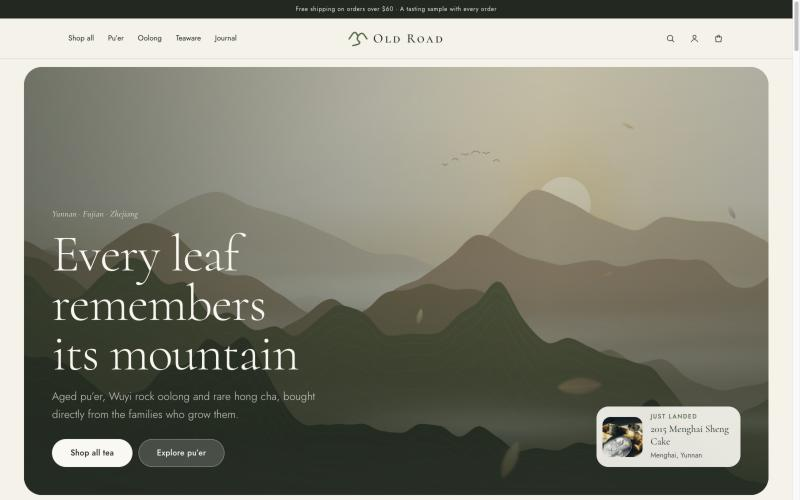
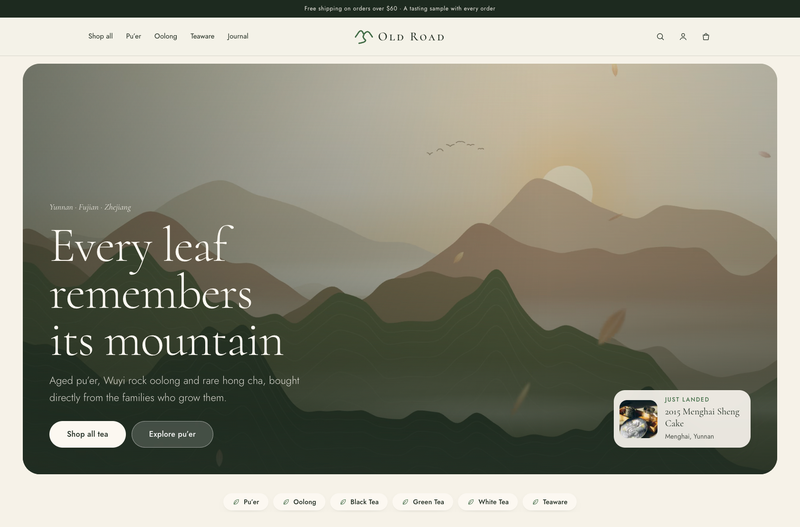
Feature Old Road alone and move Atelier to the Other list
Claude-Session: https://claude.ai/code/session_019kEPvjAKrhc257yV35kJJV

Changed region(s): [[0.0, 0.12, 1.0, 0.99], [0.0, 0.0, 1.0, 0.09], [0.2812, 0.36, 0.4062, 0.42]]

diff --git a/README.md b/README.md
@@ -28,18 +28,16 @@ Built the marketing site and [docs site](https://docs.unilake.com/) on shared UI
 
 <a href="https://www.unilake.com/"><img src="./screenshots/unilake.png" width="40%" alt="Unilake marketing site homepage"></a>
 
-**[Old Road](https://tea-shop-coral.vercel.app/) & [Atelier](https://atelie-store-beta.vercel.app/)** — full-stack e-commerce stores for tea and fashion\
-Next.js apps built end to end: product collections, search, cart, Stripe Checkout, authentication and user accounts. Stock reservation that holds up when several people buy at once, idempotent webhooks and an admin dashboard. · [code](https://github.com/yeldynov/tea-shop)\
+**[Old Road](https://tea-shop-coral.vercel.app/)** — full-stack e-commerce store for Chinese tea\
+Next.js app built end to end: product collections, search, cart, Stripe Checkout, authentication and user accounts. Stock reservation that holds up when several people buy at once, idempotent webhooks and an admin dashboard. · [code](https://github.com/yeldynov/tea-shop)\
 `Next.js` `TypeScript` `PostgreSQL` `Drizzle` `Stripe` `Better Auth` `Tailwind CSS`
 
-<p>
-  <a href="https://tea-shop-coral.vercel.app/"><img src="./screenshots/old-road.png" width="40%" alt="Old Road tea shop homepage"></a>
-  <a href="https://atelie-store-beta.vercel.app/"><img src="./screenshots/atelier.png" width="40%" alt="Atelier fashion store homepage"></a>
-</p>
+<a href="https://tea-shop-coral.vercel.app/"><img src="./screenshots/old-road.png" width="40%" alt="Old Road tea shop homepage"></a>
 
 **Other**
 - [Roam](https://github.com/yeldynov/roam) — Airbnb-style mobile app where you search for stays in plain English · `React Native` `Expo` `TypeScript` `NativeWind` `Sanity` `Clerk` `PostHog`
 - [Vertex](https://vertex-delta-orpin.vercel.app/) — video learning platform with AI search that opens lessons at the exact second a topic is taught · [code](https://github.com/yeldynov/vertex) · `Next.js` `TypeScript` `Gemini` `Sanity` `Clerk` `Zod`
+- [Atelier](https://atelie-store-beta.vercel.app/) — luxury fashion storefront with collections, cart and Stripe Checkout · [code](https://github.com/yeldynov/atelie-store) · `Next.js` `TypeScript` `PostgreSQL` `Drizzle` `Better Auth` `Stripe`
 - [CarePulse](https://carepulse-tau-one.vercel.app/) — health care app for patient registration and appointments · `Next.js` `Appwrite` `shadcn/ui`
 - [Gvozdi](https://gvozdi-pwa.netlify.app/) — offline-first PWA for nail board practice · `React` `IndexedDB` `Zustand` `Clerk`
 - [Photographer portfolio](https://wondrous-lolly-081cc0.netlify.app/) — portfolio site with a photo gallery · `React` `Framer Motion`
